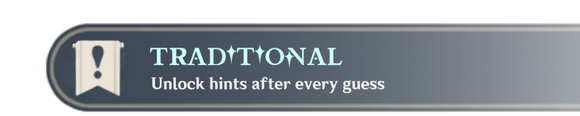
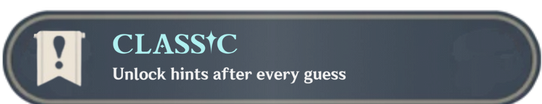
updated buttons

diff --git a/teyvatdle_app/templates/home.html b/teyvatdle_app/templates/home.html
@@ -1,13 +1,19 @@
 {% extends "base.html" %}
 {% block gamemode %}
-<div class="w-40px flex flex-col">
-    <div class="pt-[50px]">
-        <a href="/classic">
-            <img src="{{url_for('static', filename='/images/classic_button.png')}}" class="aspect-[580/116] hover:scale-button">
+<div class="flex-col ">
+    <div class="pt-[50px] flex flex-col gap-y-[12px]">
+        <a class="flex justify-center" href="/classic">
+            <img src="{{url_for('static', filename='/images/classic_button.png')}}" class="aspect-[580/116] h-[90px] hover:scale-button">
         </a>
-        <img src="{{url_for('static', filename='/images/voiceline_button.png')}}" class="aspect-[580/116] hover:scale-button">
-        <img src="{{url_for('static', filename='/images/ability_button.png')}}" class="aspect-[580/116] hover:scale-button">
-        <img src="{{url_for('static', filename='/images/spy_button.png')}}" class="aspect-[580/116] hover:scale-button">
+        <a class="flex justify-center" href="/voiceline">
+            <img src="{{url_for('static', filename='/images/voiceline_button.png')}}" class="aspect-[580/116] h-[90px] hover:scale-button">
+        </a>
+        <a class="flex justify-center" href="/ability">
+            <img src="{{url_for('static', filename='/images/ability_button.png')}}" class="aspect-[580/116] h-[90px] hover:scale-button">
+        </a>
+        <a class="flex justify-center" href="/spy">
+            <img src="{{url_for('static', filename='/images/spy_button.png')}}" class="aspect-[580/116] h-[90px] hover:scale-button">
+        </a>
     </div>
 </div>
 {% endblock %}

diff --git a/teyvatdle_app/static/css/output.css b/teyvatdle_app/static/css/output.css
@@ -647,6 +647,10 @@ video {
   row-gap: 10px;
 }
 
+.gap-y-\[25px\] {
+  row-gap: 25px;
+}
+
 .overflow-hidden {
   overflow: hidden;
 }
